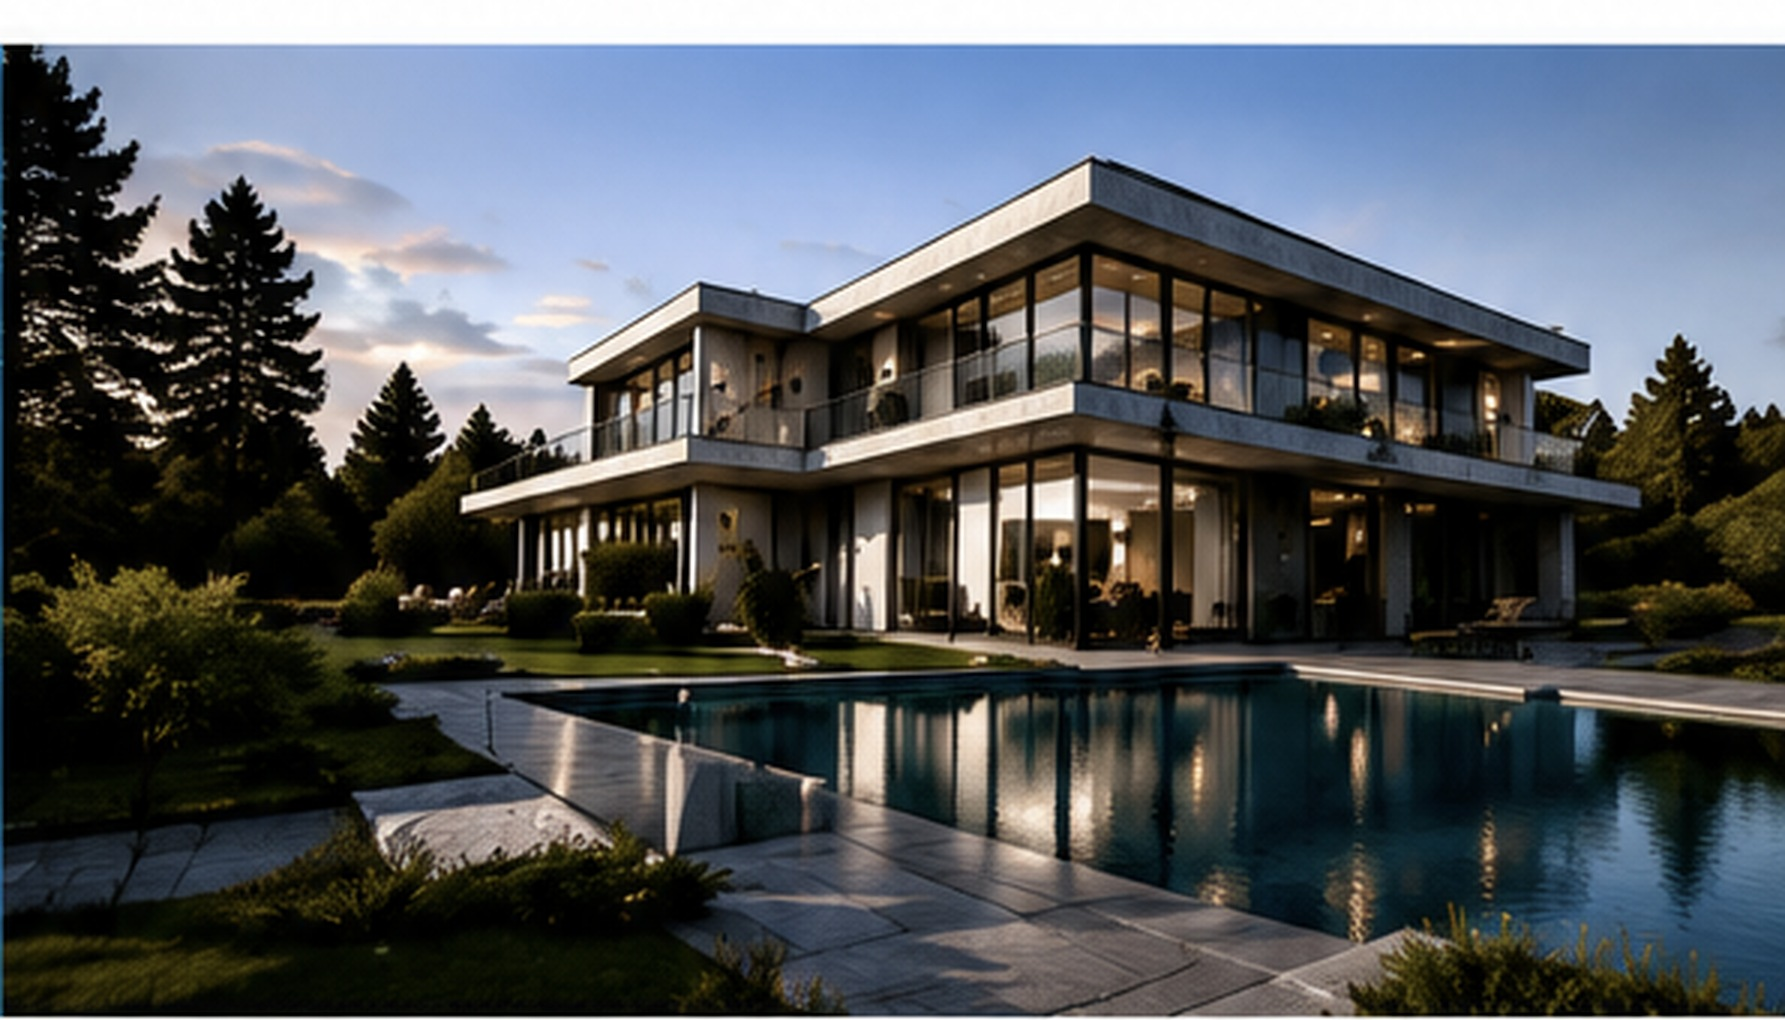
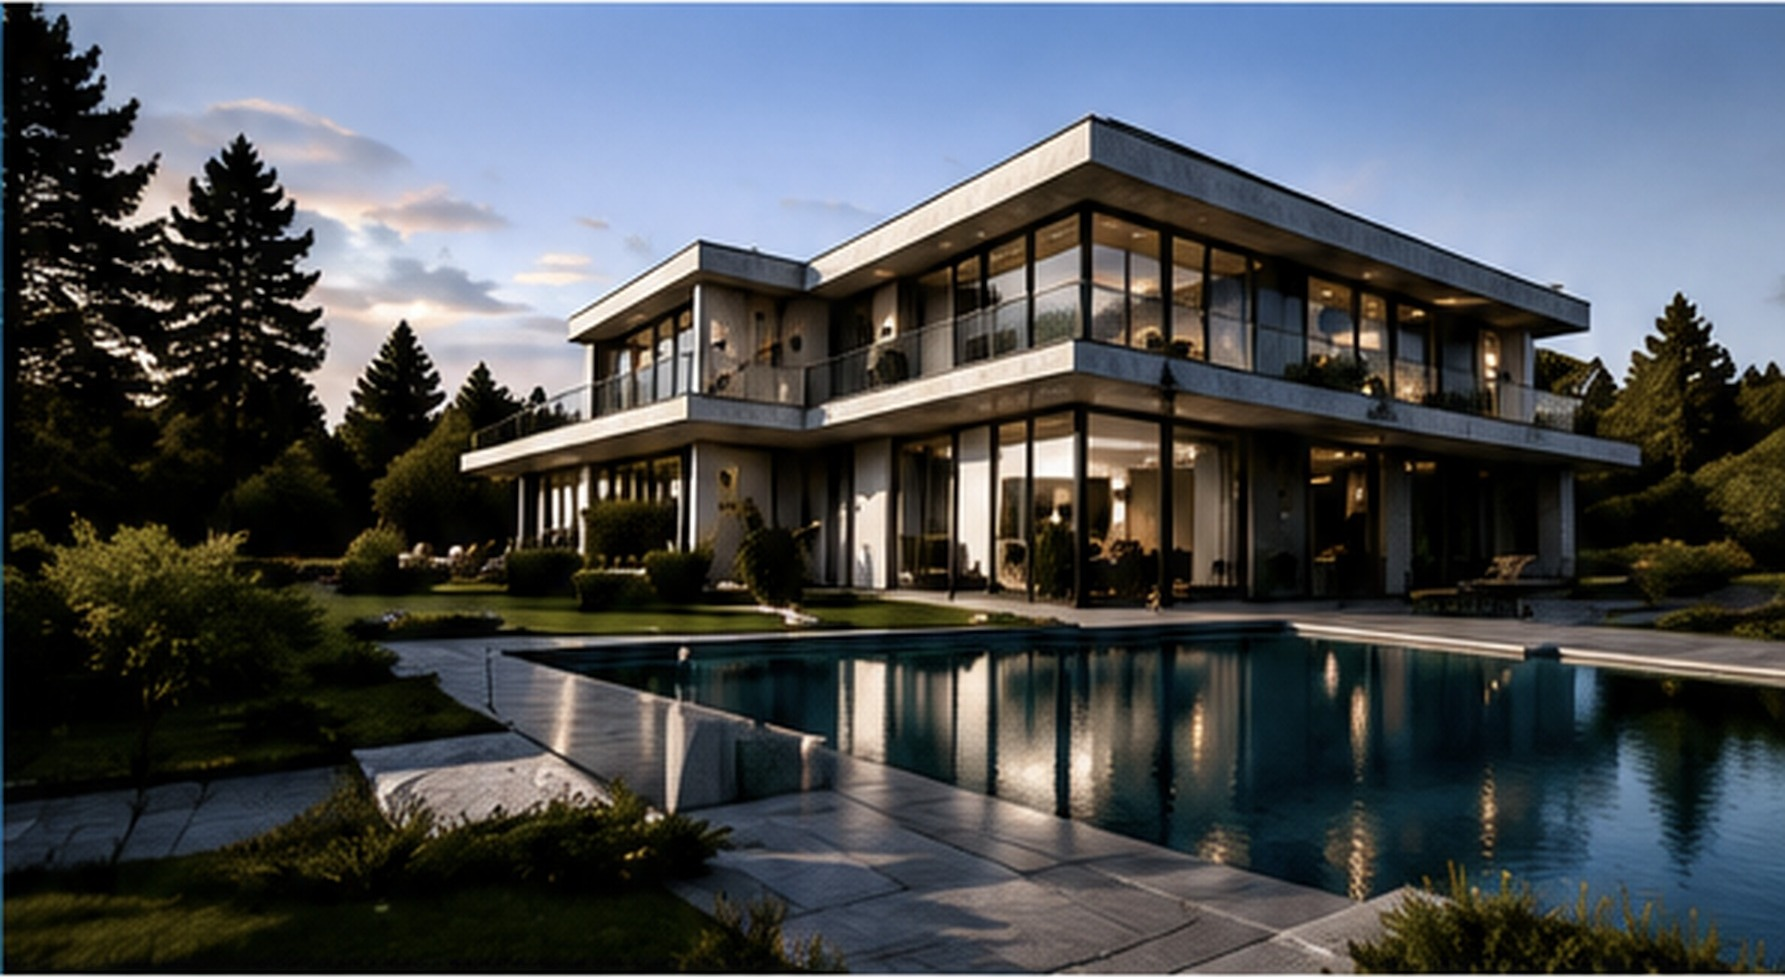
Crop white top band from hero image asset
The villa master JPEG contained a ~42px white pad at the top, so the
cyan bar looked taller than the photo even though boxes already matched.

diff --git a/lib/content/homepage.ts b/lib/content/homepage.ts
@@ -44,7 +44,7 @@ export function getHomepageContent(locale: Locale): HomepageContent {
           src: "/images/architecture/hero-villa-master.jpg",
           alt: "Architectural visualization by Studiojeker",
           width: 1785,
-          height: 1020,
+          height: 977,
         },
       },
       services: {
@@ -233,7 +233,7 @@ export function getHomepageContent(locale: Locale): HomepageContent {
         src: "/images/architecture/hero-villa-master.jpg",
         alt: "Architekturvisualisierung von Studiojeker",
         width: 1785,
-        height: 1020,
+        height: 977,
       },
     },
     services: {
